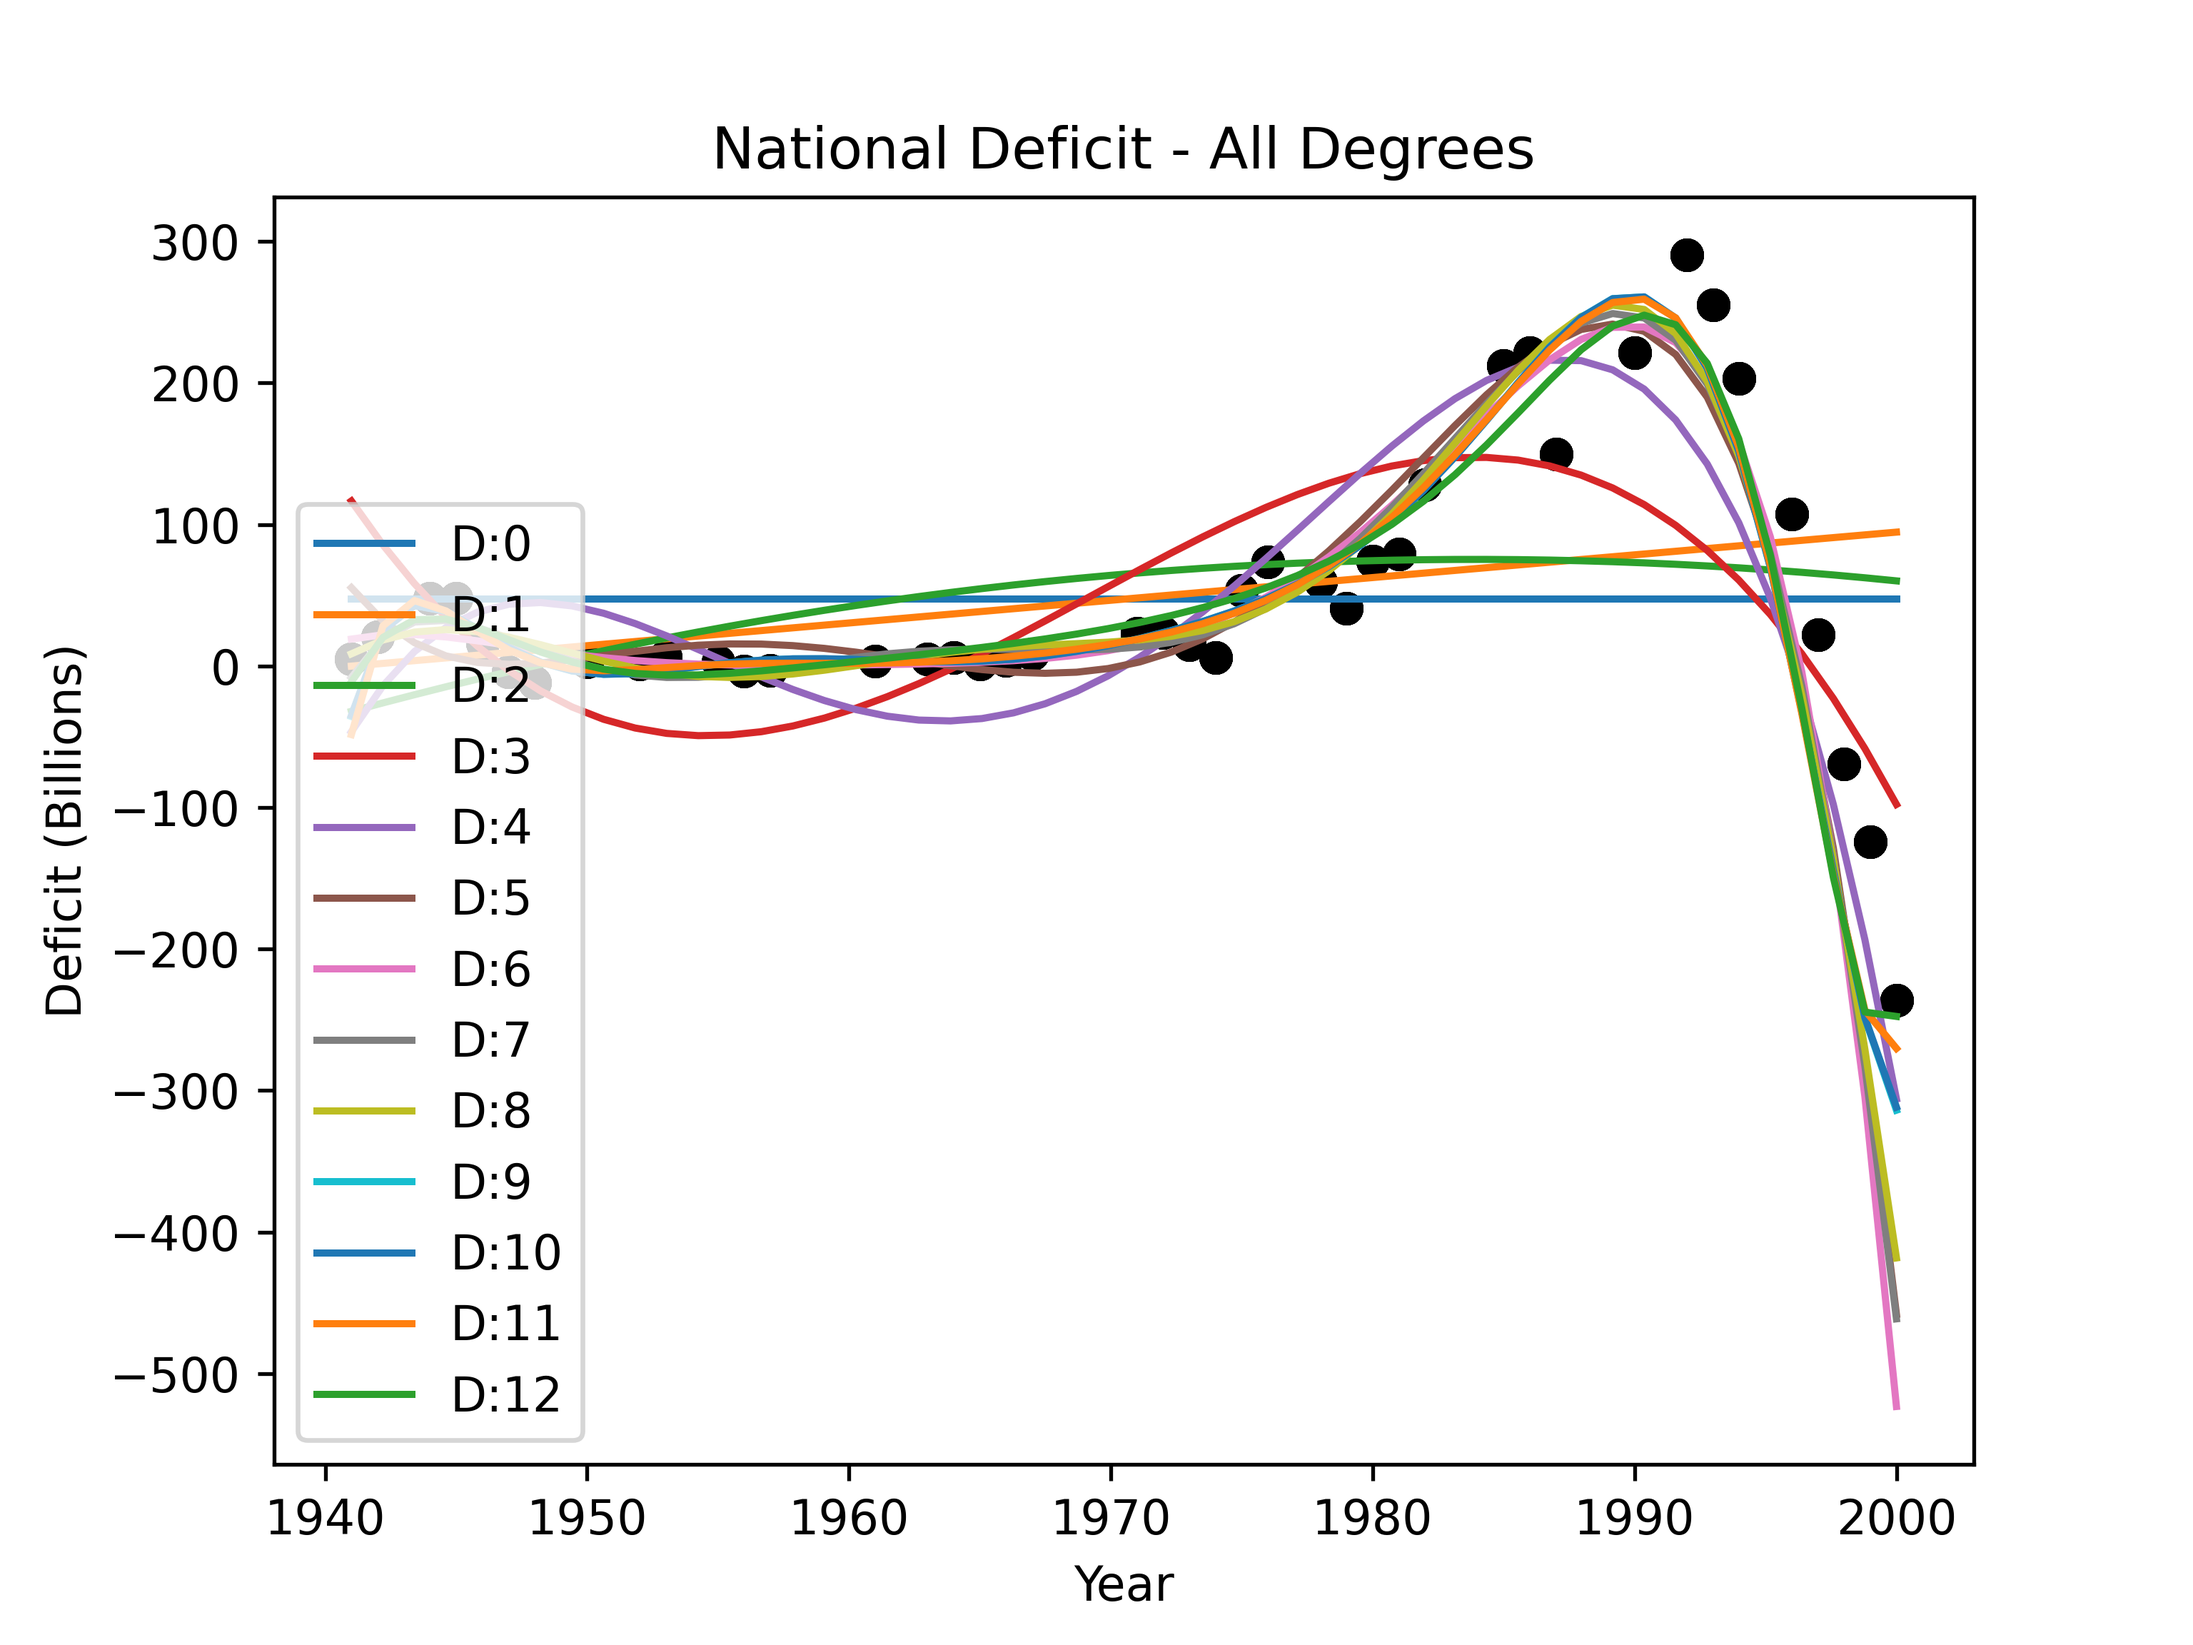
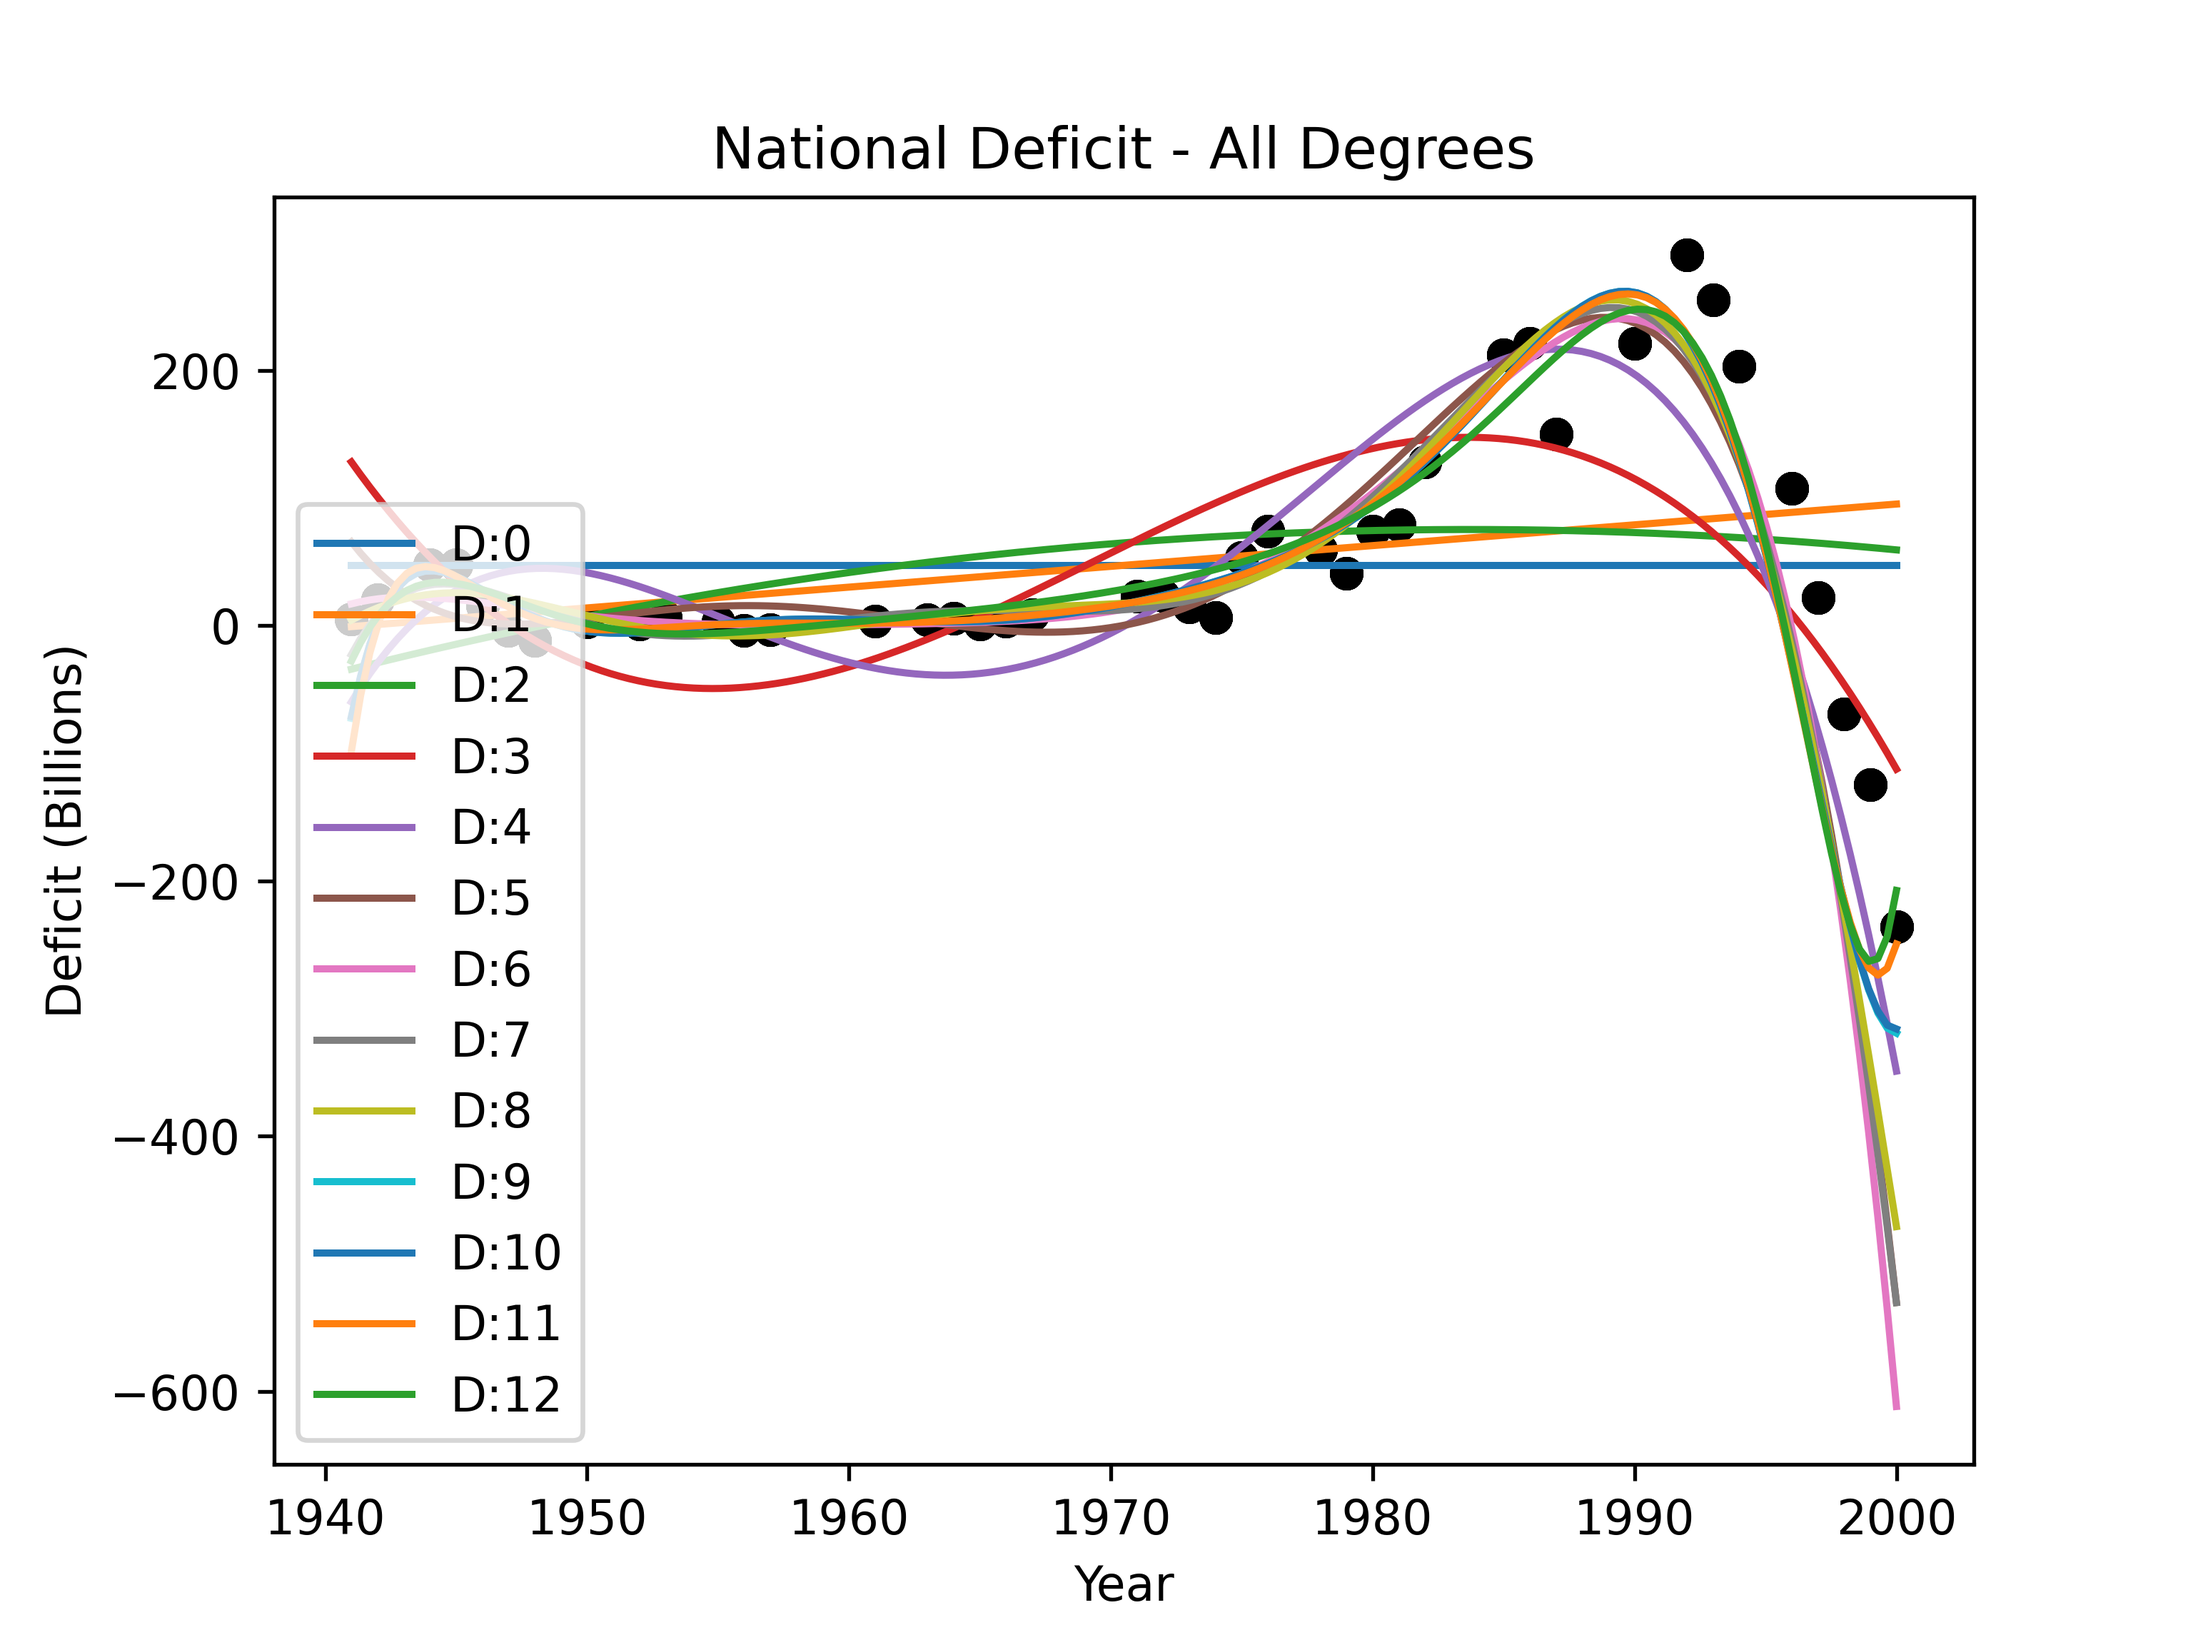
trying to get errors to match origonal run

diff --git a/app/linear_regression.py b/app/linear_regression.py
@@ -1,10 +1,11 @@
 from operator import index
 import numpy
-from sklearn.preprocessing import PolynomialFeatures, StandardScaler
+from sklearn.preprocessing import PolynomialFeatures
 import matplotlib.pyplot as plot
 from sklearn.metrics import mean_squared_error
 import math
 from data_processing import the_data
+import pprint
 
 def read_data_to_x_y_arrays(input_data_file_name):    
     x_axis = []
@@ -52,7 +53,7 @@ def fit(x_1_dimension, y, _degree, _lambda = 0):
 
 
 def predict(x_1_dimension, hypothesis, _degree):
-    X = x_data_in_polynomial_matrix(x_1_dimension.normalized(), _degree)          
+    X = x_data_in_polynomial_matrix(x_1_dimension, _degree)          
 
     y_predicted = X @ hypothesis
     return y_predicted
@@ -79,8 +80,8 @@ def root_mean_square_error(y_orig, y_predicted):
 
 #     return scaler, single_numpy_array
 
-# def un_normalize(_data, scalar):
-#     un_normalized_data = scalar.inverse_transform(_data.reshape(-1, 1))
+# def un_normalize(_data, scaler):
+#     un_normalized_data = scaler.inverse_transform(_data.reshape(-1, 1))
 
 #     normal_array = []
 #     for value in un_normalized_data:
@@ -114,27 +115,6 @@ def lowest_error_per_degree(_totals, _degree):
     return values_for_lowest_error
 
 
-def error_on_test_data(x, y, best_algorithm):
-    _degree = best_algorithm[0][0]
-    _lambda = best_algorithm[0][1]
-    hypothesis = best_algorithm[0][3]
-
-    y_predicted = predict(x.normalized(), hypothesis, _degree)
-    y_predicted_data = the_data(y_predicted)
-    y_predicted_data.scaler = y.scalar
-
-
-    error = root_mean_square_error(y.un_normalized(), y_predicted_data.un_normalize())
-
-    y_plot_curve_predicted = predict(x.scatter_plot(), hypothesis, _degree)
-    y_plot_curve = the_data(y_plot_curve_predicted)
-    y_plot_curve.scaler = y.scalar
-    
-    plot_test_data(x.un_normalized(), y.un_normalized(), 
-          x.scatter_plot(), y_plot_curve.un_normalize(), _degree, _lambda)
-    return error
-
-
 def plot_test_data(actual_x, actual_y, curve_x, predeticted_curve_y, _degree, _lambda):
     plot.title("National Deficit - Test Results with optimized model")
     plot.scatter(actual_x, actual_y, color='black')
@@ -149,20 +129,21 @@ def plot_test_data(actual_x, actual_y, curve_x, predeticted_curve_y, _degree, _l
     plot.clf()
 
 
-def plot_all_itterations(_totals, y, x):
+def plot_all_itterations(_totals, x, y):
     plot.title("National Deficit - All Degrees")
     for _degree in range(13):
         lowest_error = lowest_error_per_degree(_totals, _degree)
-        hypotheses_for_this_lambda = lowest_error[0][3]
-        best_lambda = lowest_error[0][1]
+        hypotheses = lowest_error[0][3]
+        x_scatter_data = the_data(x.scatter_plot())
+        x_scatter_data.scaler = x.scaler
 
-        y_plot_curve_predicted = predict(x.scatter_plot(), hypotheses_for_this_lambda, _degree)
-        y_plot_curve = the_data(y_plot_curve_predicted)
-        y_plot_curve.scaler = y.scalar
-       
+        y_plot_curve_predicted = predict(x_scatter_data.normalize(), hypotheses, _degree)
+
         my_label = "D:" + str(_degree)
-        plot.scatter(training_x, training_y, color='black')
-        plot.plot(x.scatter_plot(), y_plot_curve.un_normalized(), label=my_label)
+        plot.scatter(x.data, y.data, color='black')
+        y_plot_curve_predicted_data = the_data(y_plot_curve_predicted)
+        y_plot_curve_predicted_data.scaler = y.scaler
+        plot.plot(x.scatter_plot(), y_plot_curve_predicted_data.un_normalize(), label=my_label)
     plot.xlabel("Year")
     plot.ylabel("Deficit (Billions)")
     plot.legend(loc="lower left")
@@ -170,7 +151,7 @@ def plot_all_itterations(_totals, y, x):
     plot.show
     plot.clf()
 
-def plot_all_lambda_for_d_12(_totals, y):
+def plot_all_lambda_for_d_12(_totals, x, y):
     plot.title("National Deficit - D12 - All Lambdas")
 
     numpy_array_of_totals = numpy.array(_totals, dtype=object)
@@ -181,14 +162,17 @@ def plot_all_lambda_for_d_12(_totals, y):
     for results in results_degree_12_matrix:
         degree = results[0]
         _lambda = results[1] 
-        _hypotheses = results[3]
-        plot_data_y_predicted = predict(x_plot_curve, _hypotheses, degree)
-        y_plot_curve = the_data(plot_data_y_predicted)
-        y_plot_curve.scaler = y.scalar
+        hypotheses = results[3]
+        x_scatter_data = the_data(x.scatter_plot())
+        x_scatter_data.scaler = x.scaler
+
+        y_plot_curve_predicted = predict(x_scatter_data.normalize(), hypotheses, 12)
 
         my_label = "D: " + str(degree) + " Lambda: " + str(_lambda)
-        plot.scatter(training_x, training_y, color='black')
-        plot.plot(x_plot_curve, y_plot_curve.un_normalized(), label=my_label)
+        plot.scatter(x.data, y.data, color='black')
+        y_plot_curve_predicted_data = the_data(y_plot_curve_predicted)
+        y_plot_curve_predicted_data.scaler = y.scaler
+        plot.plot(x.scatter_plot(), y_plot_curve_predicted_data.un_normalize(), label=my_label)
 
     plot.xlabel("Year")
     plot.ylabel("Deficit (Billions)")
@@ -204,17 +188,17 @@ validation_dataset = "data/deficit_test.dat"
 training_x , training_y = read_data_to_x_y_arrays(training_dataset)
 validation_x , validation_y = read_data_to_x_y_arrays(validation_dataset)
 
-x_training   = the_data(training_x, folds=6)
+x_training_data_full = the_data(training_x)
+y_training_data_full = the_data(training_y)
 
-y_training   = the_data(training_y)
-
-x_validation = the_data(validation_x)
-y_validation = the_data(validation_y)
-
+x_validation_data = the_data(validation_x)
+y_validation_data = the_data(validation_y)
 
 folds = 6 # Split the training data into folds to use as mini testing data
 
 totals = []
+hold_outs_x , y_test = seperate_to_folds(x_training_data_full.data, y_training_data_full.data, folds)
+
 for degree in range(13):
     my_lambda = [0]
     if degree == 12:
@@ -222,40 +206,63 @@ for degree in range(13):
                      math.exp(-7), math.exp(-3), 1, math.exp(3), math.exp(7)]
     for _lambda in my_lambda:
         average_error_list = []
-        hold_outs_x , hold_outs_y = seperate_to_folds(x_training.normalized(), y_training.normalized(), folds)
-        for fold_n, hold_out_test_x  in enumerate(hold_outs_x):
+        for fold_n, x_test  in enumerate(hold_outs_x):
             # Remove the hold_out[index] test data from the overall training data set
-            # training_data_x = numpy.setdiff1d(training_x, hold_out_test_x)
 
-            indexes_to_del = indexes_of_data(hold_out_test_x, fold_n * folds)
-            training_data_x = numpy.delete(x_training.normalized(), indexes_to_del)
-            training_data_y = numpy.delete(y_training.normalized(), indexes_to_del)
+            indexes_to_del = indexes_of_data(x_test, fold_n * folds)
+            x_training_fold = numpy.delete(x_training_data_full.data, indexes_to_del)
+            y_training_fold = numpy.delete(y_training_data_full.data, indexes_to_del)
+            
+            x_training_fold_data = the_data(x_training_fold)
+            y_training_fold_data = the_data(y_training_fold)
 
-            hypothesis = fit(training_data_x, training_data_y, degree, _lambda)
-            y_predicted = predict(hold_out_test_x, hypothesis, degree)
+            hypothesis = fit(x_training_fold_data.normalize(), 
+                             y_training_fold_data.normalize(), 
+                             degree, 
+                             _lambda)
+            
+            x_test_data = the_data(x_test)
+            x_test_data.scaler = x_training_fold_data.scaler
+            y_predicted = predict(x_test_data.normalize(), 
+                                  hypothesis, 
+                                  degree)
 
-            un_normalize_hold_out_x = un_normalize(hold_out_test_x)
-            un_normalize_hold_out_y = un_normalize(hold_outs_y[fold_n])
-            un_normalize_y_predicted = un_normalize(y_predicted)
-            error = root_mean_square_error(un_normalize_hold_out_y, un_normalize_y_predicted)
+            # y_test_data = the_data(y_test[fold_n])
+            y_predicted_data = the_data(y_predicted)
+            y_predicted_data.scaler = y_training_fold_data.scaler
+            error = root_mean_square_error(y_test[fold_n],
+                                           y_predicted_data.un_normalize())
             average_error_list.append(error)
    
-        hypothesis = fit(x_training.normalized(), y_training.normalized(), degree, _lambda)
         average_error = sum(average_error_list) / len(average_error_list)
+        hypothesis = fit(x_training_data_full.normalize(), 
+                         y_training_data_full.normalize(), 
+                         degree, 
+                         _lambda)
         totals.append([degree, _lambda, average_error, hypothesis])
 
 
-plot_all_itterations(totals, y_training, x_training)
+plot_all_itterations(totals, x_training_data_full, y_training_data_full)
 
-plot_all_lambda_for_d_12(totals)
+# plot_all_lambda_for_d_12(totals, x_training_data_full, y_training_data_full)
 
 print("__ALL TOTALS__")
-print(totals)
+pp = pprint.PrettyPrinter(indent=4)
+print(pp.pprint(totals))
 print("______________")
 lowest_overall_error = lowest_error(totals)
 print("The Winner!", lowest_overall_error)
-lowest_overall_error = []
-testing_error = error_on_test_data(x_validation, y_validation, 
-                     lowest_overall_error)
 
-print("Error on test data:", testing_error)
+best_degree = lowest_overall_error[0][0]
+best_hypothesis = lowest_overall_error[0][3]
+
+x_validation_data.scaler = x_training_data_full.scaler
+y_predicted = predict(x_validation_data.normalize(), 
+                      best_hypothesis, 
+                      best_degree)
+
+y_validation_data.scaler = y_training_data_full.scaler
+validation_error = root_mean_square_error(y_validation_data.un_normalize(),
+                              y_predicted)
+
+print("Error on validation data:", validation_error)

diff --git a/app/data_processing.py b/app/data_processing.py
@@ -2,17 +2,16 @@ from sklearn.preprocessing import StandardScaler
 import numpy
 
 class the_data():
-    def __init__(self, x_data, y_data, folds=0):
-        self.x_data = x_data
-        self.y_data = y_data
+    def __init__(self, data, folds=0):
+        self.data = data
         self.folds = folds
-
+        self.normalize()
 
     def __call__(self):
         return True
 
 
-    def normalized(self, optional_data=""):
+    def normalize(self):
         try:
             normalized_data = self.normalized_data
         except AttributeError:
@@ -27,22 +26,20 @@ class the_data():
 
             self.normalized_data = normalized_data
             self.scaler = scaler
-        # average = numpy.average(normalized_data)
-        # standard_deviation = numpy.std(normalized_data)
+            # average = numpy.average(normalized_data)
+            # standard_deviation = numpy.std(normalized_data)
         return normalized_data
 
     def un_normalize(self):
-        self.normalized(self.data)
+        self.normalize()
         try:
             un_normalized_data = self.un_normalized_data
         except AttributeError:
-            inverse_transform = self.scalar.inverse_transform(self.data.reshape(-1, 1))
+            inverse_transform = self.scaler.inverse_transform(self.data.reshape(-1, 1))
             output_array = []
             for value in inverse_transform:
                 output_array.append(value[0])
             un_normalized_data = numpy.array(output_array)
-
-            self.un_normalized_data = un_normalized_data
 
         return un_normalized_data
 
